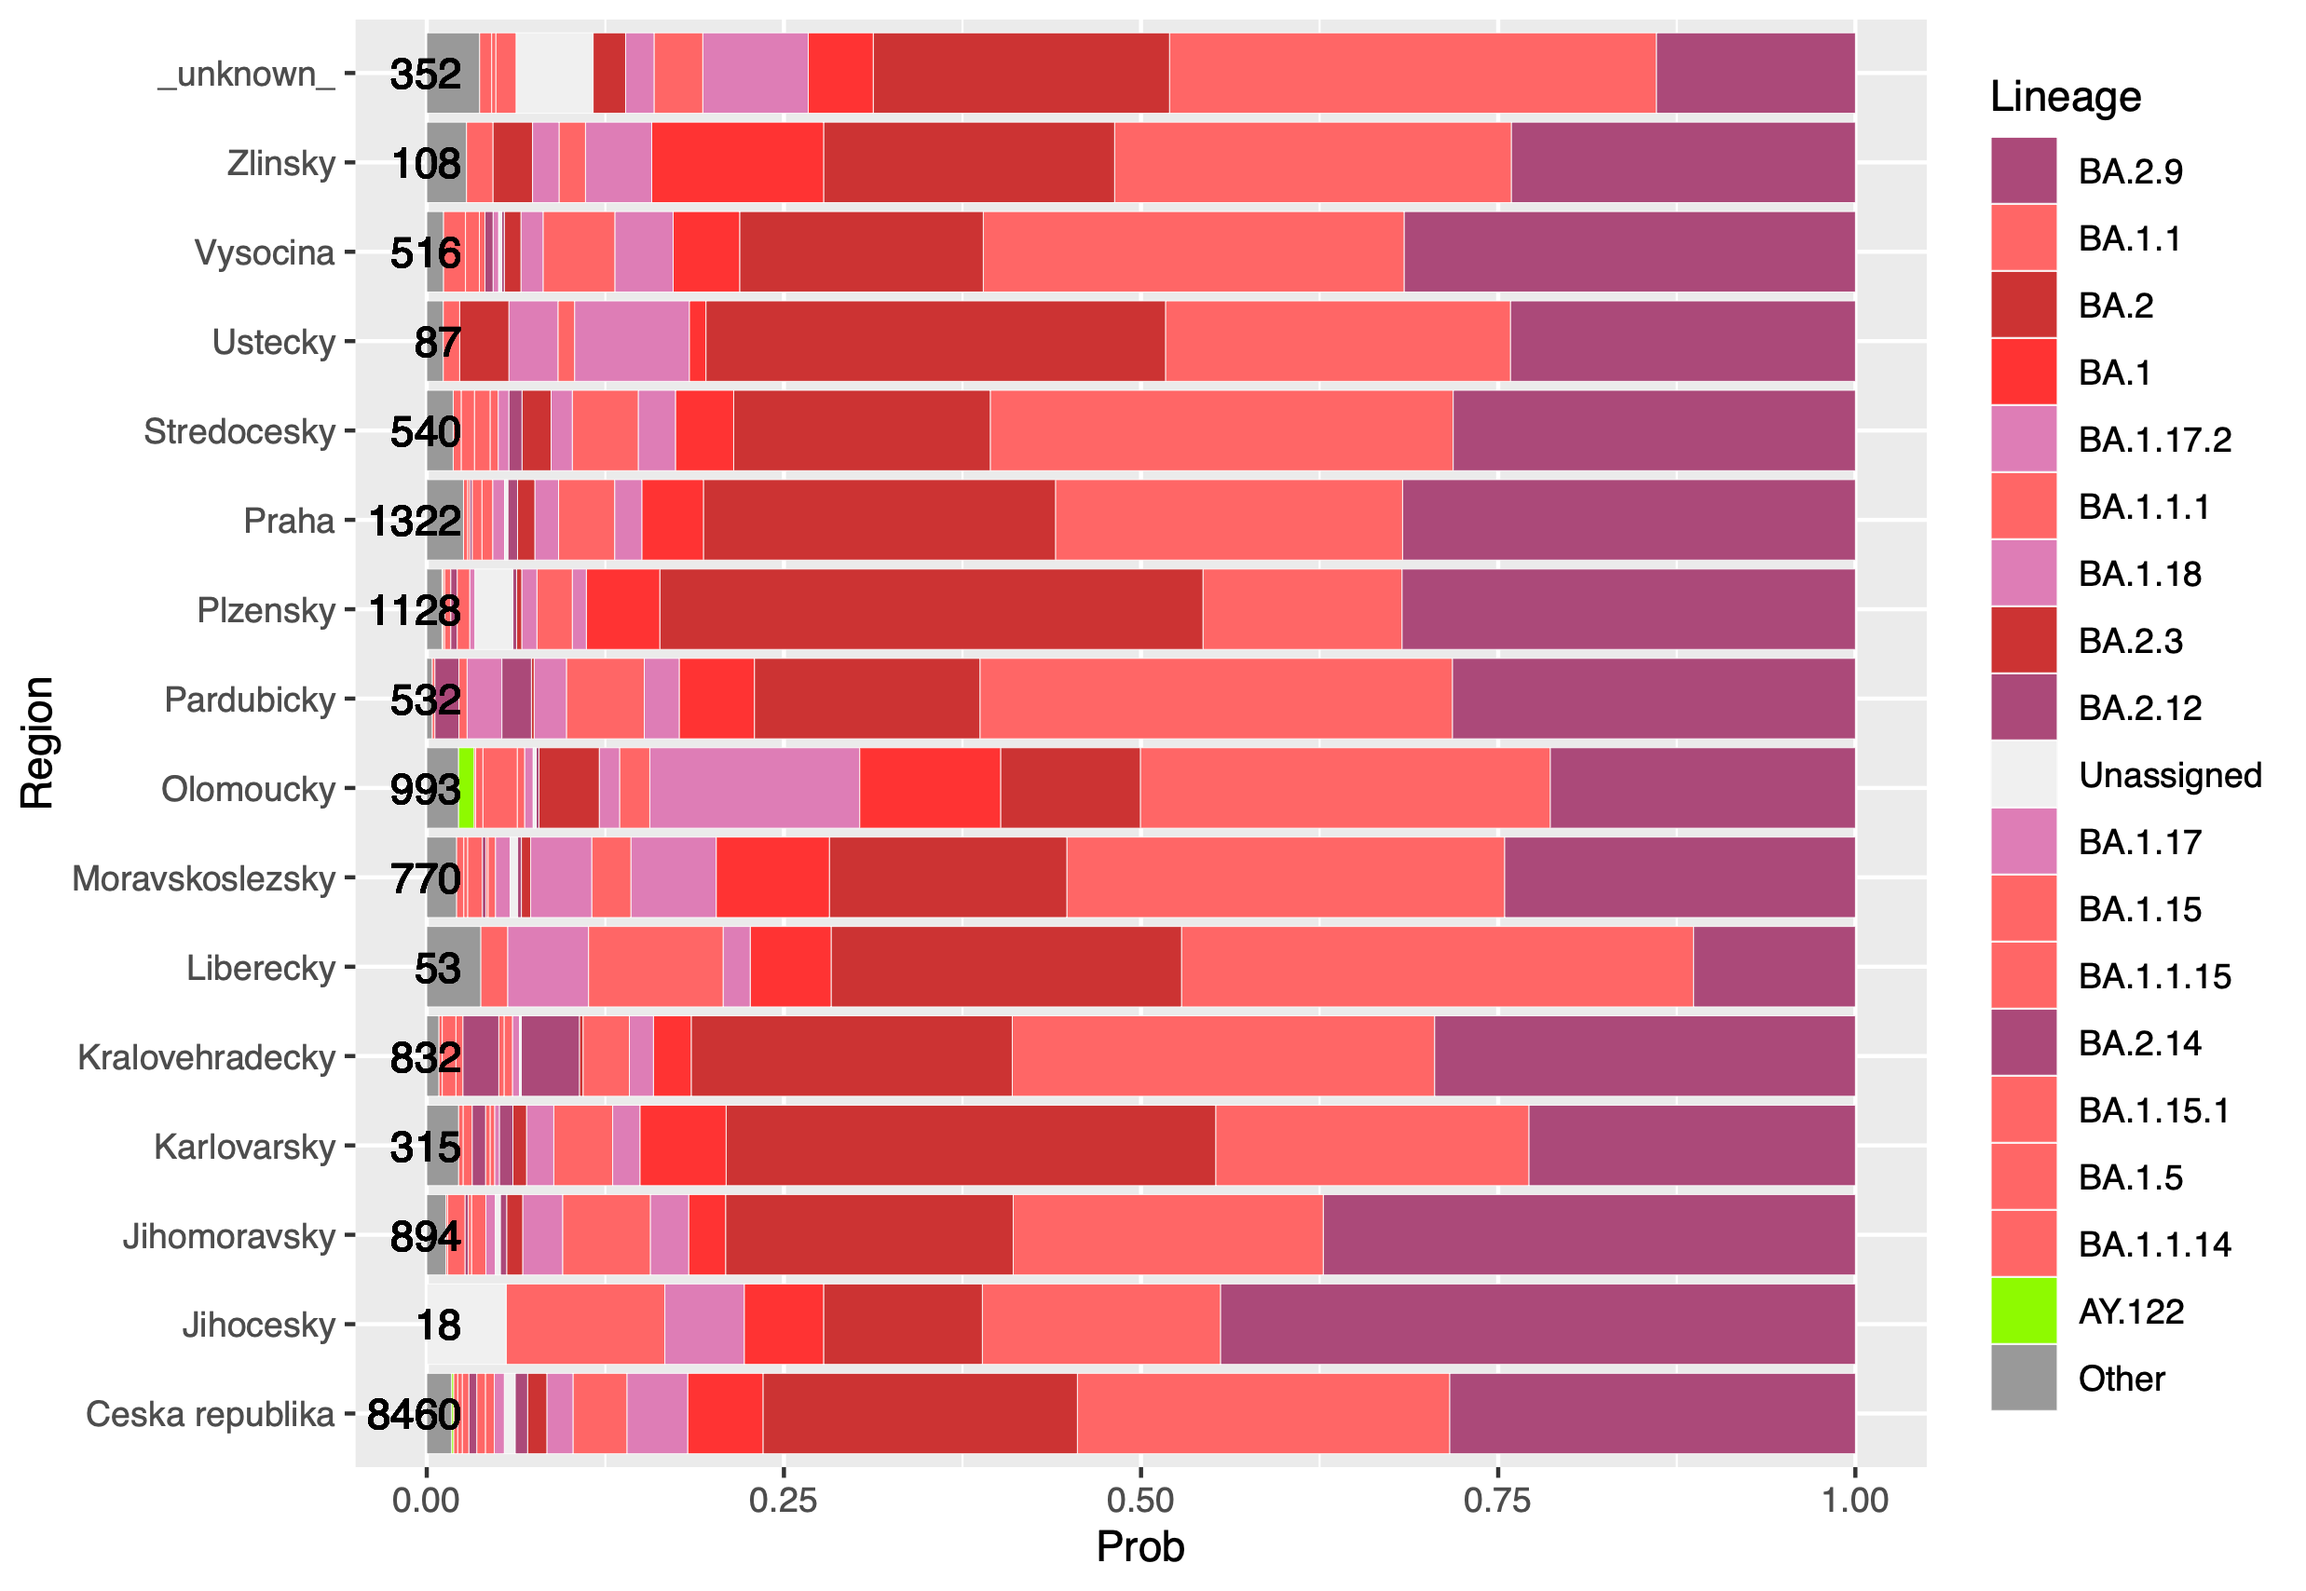
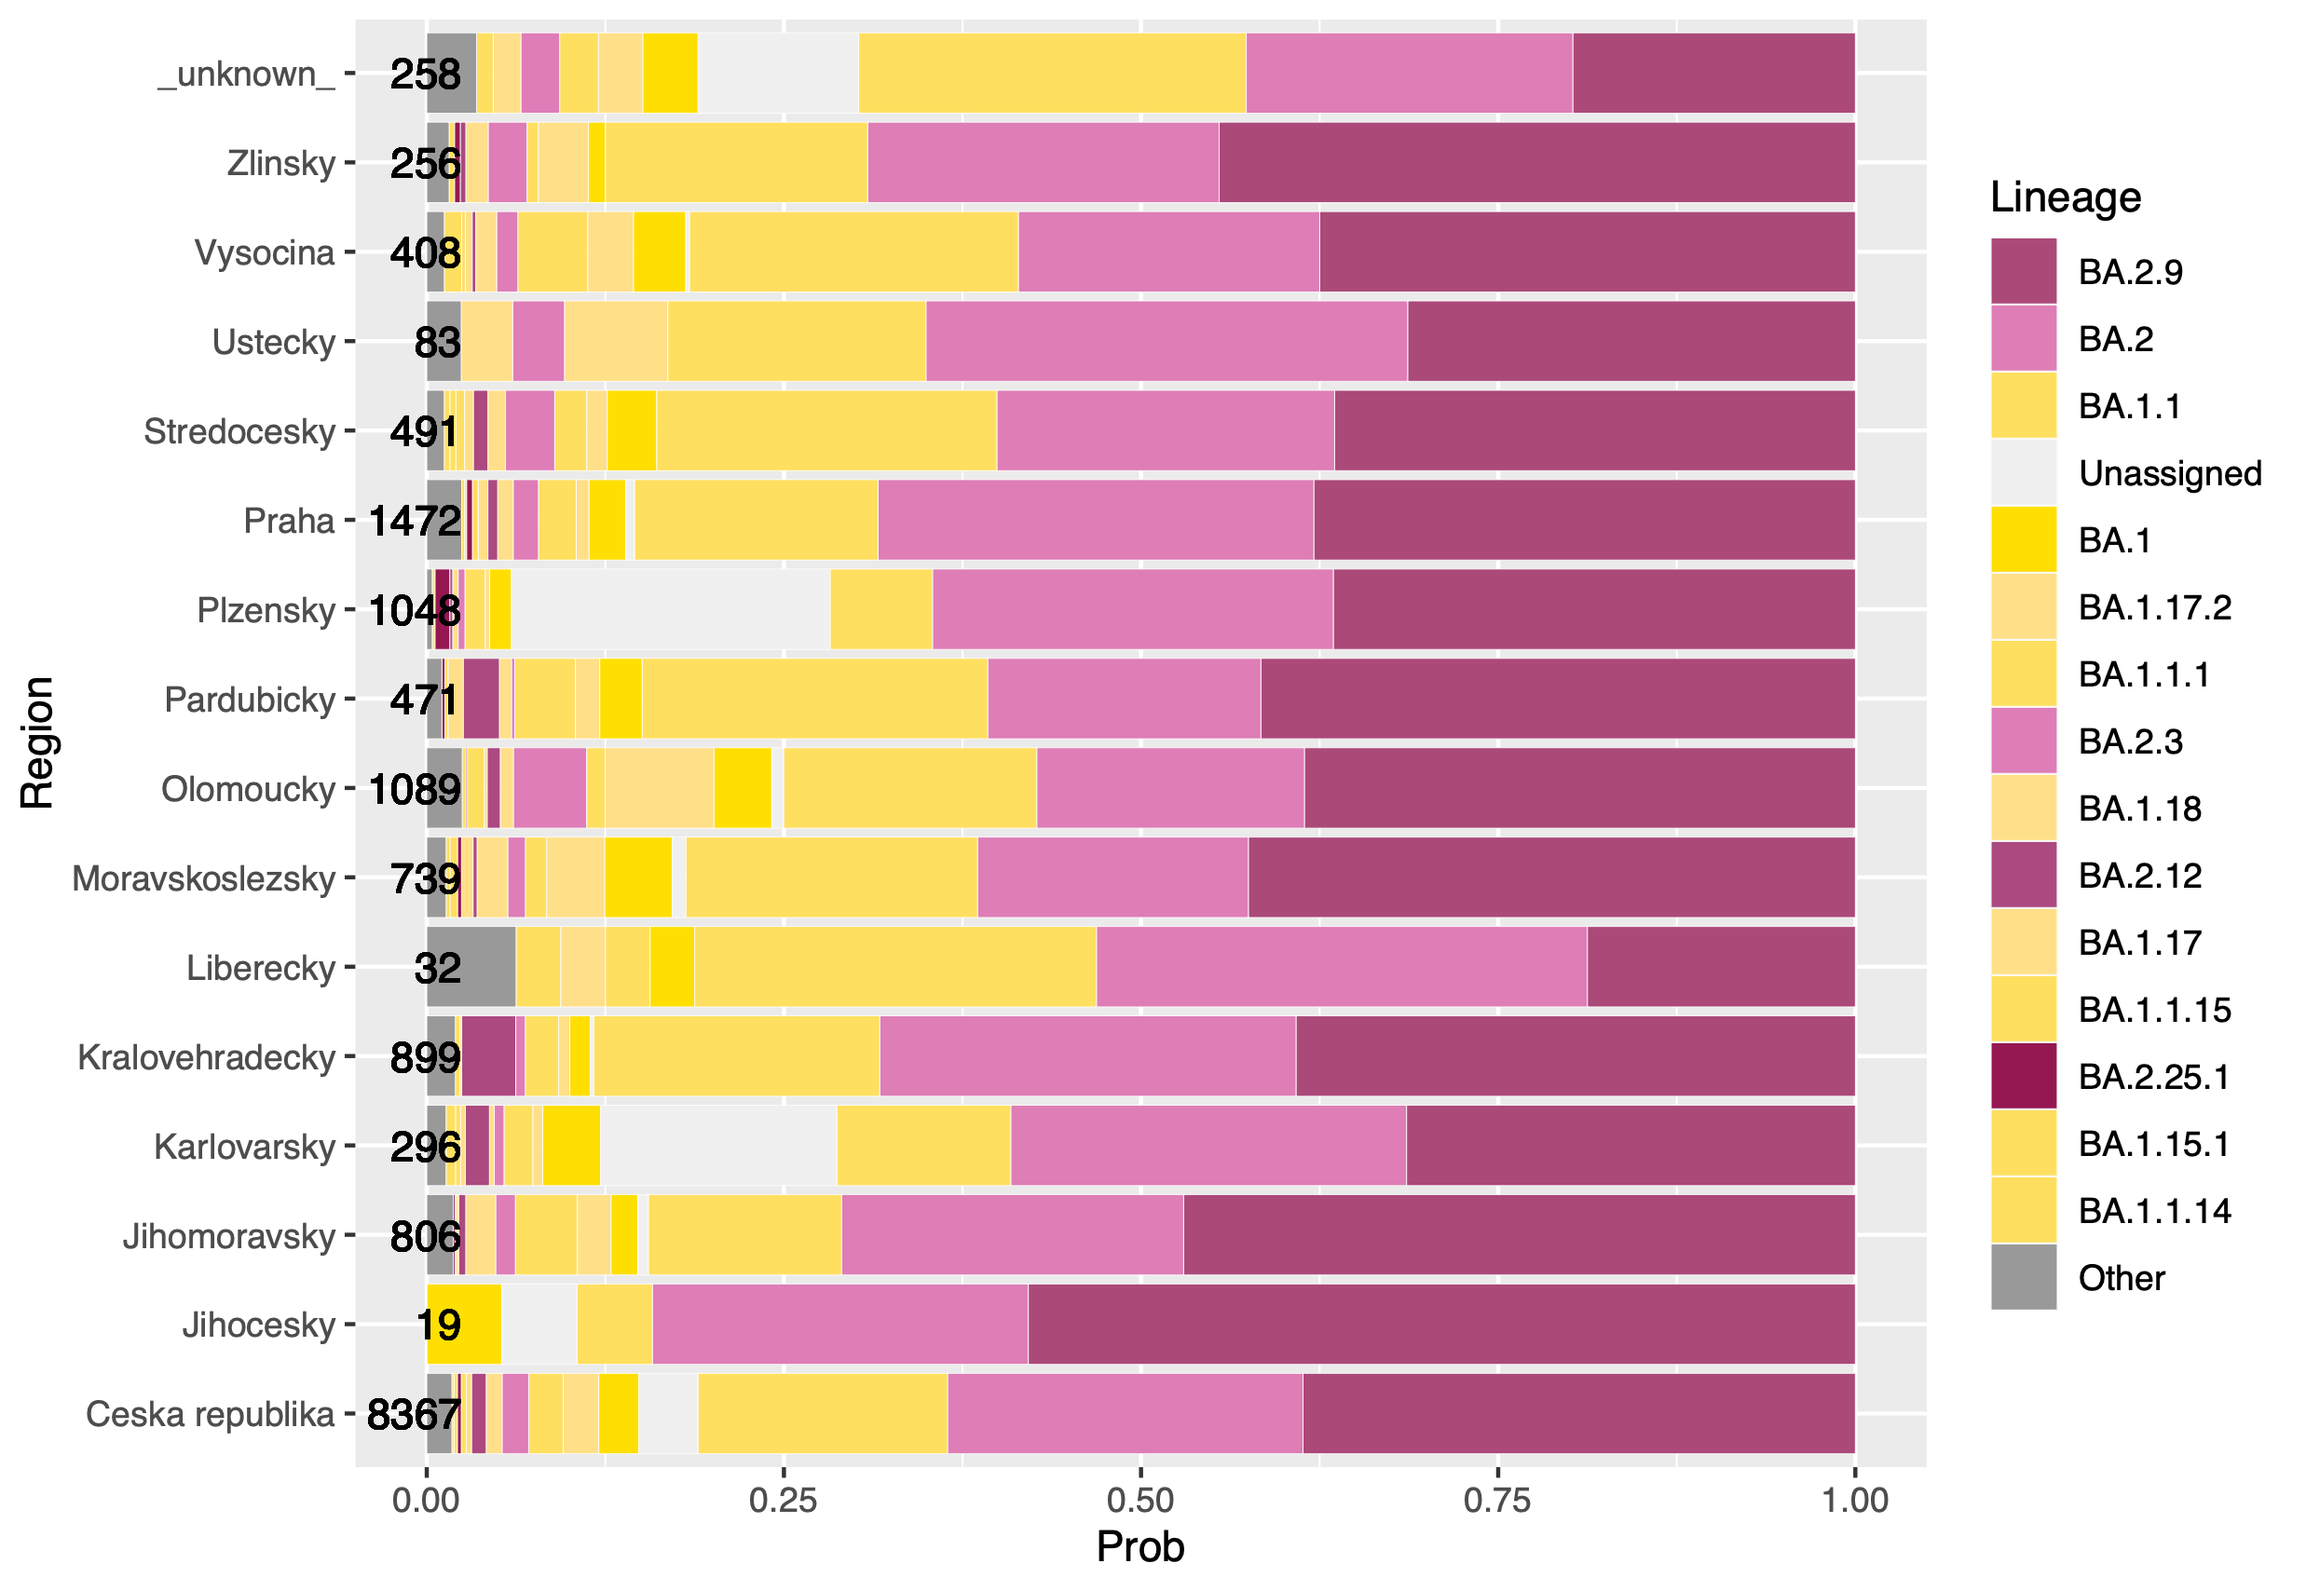
week 18 v1

diff --git a/template_main.py b/template_main.py
@@ -27,7 +27,7 @@ STARTING_WEEK = "7"
 SEQUENCED_RATIO = "2.0"
 MUTATIONS_COUNT = "6 000"
 NOW=datetime.datetime.now().strftime('%d. %m. %Y' )
-VOC = ['B.1.351',"B.1.1.529", 'P.1', 'B.1.617.2','B.1.1.7',"B.1.351.2", "B.1.351.5", "BA.1.1", "BA.1.1.2", "BA.1.1.1", "BA.1.1.4", "BA.1.1.7", "BA.1.1.10","BA.1.1.11", "BA.1.1.12", "BA.1.1.13", "BA.1.1.14", "BA.1.1.15","BA.1.1.16","BA.1.1.16.2", "BA.1", "BA.1.4", "BA.1.5", "BA.1.6", "BA.1.7", "BA.1.8", "BA.1.10", "BA.1.12", "BA.1.13", "BA.1.13.1", "BA.1.14", "BA.1.15", "BA.1.15.1","BA.1.16", "BA.1.17", "BA.1.17.2","BA.1.18", "BA.1.20", "BA.1.21","BA.1.21.1", "BA.2","BA.2.1", "BA.2.3", "BA.2.4", "BA.2.5", "BA.2.6", "BA.2.7","BA.2.9", "BA.2.10","BA.2.10.1", "BA.2.11", "BA.2.12", "BA.2.14", "BA.3",  "AY.1", "AY.2", "AY.3", "AY.4", "AY.4.1", "AY.4.2", "AY.4.2.1", "AY.4.2.2", "AY.4.2.3", "AY.4.3", "AY.4.13", "AY.4.4","AY.4.5", "AY.4.6", "AY.4.7", "AY.4.9", "AY.5", "AY.5.2", "AY.5.4", "AY.6","AY.7","AY.7.1", "AY.7.2", "AY.9","AY.9.1", "AY.9.2", "AY.10", "AY.11", "AY.12", "AY.16", "AY.20", "AY.20.1", "AY.21", "AY.23","AY.23.1", "AY.25", "AY.25.1", "AY.26","AY.27", "AY.31", "AY.32", "AY.33", "AY.34", "AY.35","AY.36", "AY.36.1", "AY.37", "AY.38", "AY.39", "AY.39.1", "AY.40", "AY.41","AY.42", "AY.43", "AY.43.2", "AY.43.3", "AY.43.4", "AY.43.6", "AY.43.7", "AY.43.8", "AY.43.9", "AY.44", "AY.45", "AY.46", "AY.46.1", "AY.46.5", "AY.46.6","AY.46.2", "AY.46.6", "AY.47", "AY.51", "AY.60", "AY.61", "AY.66", "AY.68", "AY.71", "AY.74", "AY.79", "AY.84", "AY.91", "AY.94", "AY.95", "AY.96", "AY.98", "AY.98.1", "AY.100", "AY.102", "AY.103", "AY.106", "AY.110", "AY.111", "AY.112", "AY.113", "AY.116", "AY.117", "AY.118", "AY.119", "AY.120", "AY.121", "AY.121.1", "AY.122", "AY.122.1", "AY.123", "AY.124", "AY.125", "AY.126", "AY.127", "AY.129"]
+VOC = ['B.1.351',"B.1.1.529", 'P.1', 'B.1.617.2','B.1.1.7',"B.1.351.2", "B.1.351.5", "BA.1.1", "BA.1.1.2", "BA.1.1.1", "BA.1.1.4", "BA.1.1.7", "BA.1.1.10","BA.1.1.11", "BA.1.1.12", "BA.1.1.13", "BA.1.1.14", "BA.1.1.15","BA.1.1.16","BA.1.1.16.2","BA.1.1.18",  "BA.1", "BA.1.4", "BA.1.5", "BA.1.6", "BA.1.7", "BA.1.8", "BA.1.10", "BA.1.12", "BA.1.13", "BA.1.13.1", "BA.1.14", "BA.1.15", "BA.1.15.1","BA.1.16", "BA.1.16.2",  "BA.1.17", "BA.1.17.2","BA.1.18", "BA.1.19", "BA.1.20", "BA.1.21","BA.1.21.1", "BA.2","BA.2.1", "BA.2.3", "BA.2.4", "BA.2.5", "BA.2.6", "BA.2.7", "BA.2.8", "BA.2.9", "BA.2.9.2",  "BA.2.10","BA.2.10.1", "BA.2.11", "BA.2.12", "BA.2.14", "BA.2.18", "BA.2.23", "BA.2.25", "BA.2.25.1", "BA.2.27", "BA.2.29", "BA.2.32", "BA.3",  "AY.1", "AY.2", "AY.3", "AY.4", "AY.4.1", "AY.4.2", "AY.4.2.1", "AY.4.2.2", "AY.4.2.3", "AY.4.3", "AY.4.13", "AY.4.4","AY.4.5", "AY.4.6", "AY.4.7", "AY.4.9", "AY.5", "AY.5.2", "AY.5.4", "AY.6","AY.7","AY.7.1", "AY.7.2", "AY.9","AY.9.1", "AY.9.2", "AY.10", "AY.11", "AY.12", "AY.16", "AY.20", "AY.20.1", "AY.21", "AY.23","AY.23.1", "AY.25", "AY.25.1", "AY.26","AY.27", "AY.31", "AY.32", "AY.33", "AY.34", "AY.35","AY.36", "AY.36.1", "AY.37", "AY.38", "AY.39", "AY.39.1", "AY.40", "AY.41","AY.42", "AY.43", "AY.43.2", "AY.43.3", "AY.43.4", "AY.43.6", "AY.43.7", "AY.43.8", "AY.43.9", "AY.44", "AY.45", "AY.46", "AY.46.1", "AY.46.5", "AY.46.6","AY.46.2", "AY.46.6", "AY.47", "AY.51", "AY.60", "AY.61", "AY.66", "AY.68", "AY.71", "AY.74", "AY.79", "AY.84", "AY.91", "AY.94", "AY.95", "AY.96", "AY.98", "AY.98.1", "AY.100", "AY.102", "AY.103", "AY.106", "AY.110", "AY.111", "AY.112", "AY.113", "AY.116", "AY.117", "AY.118", "AY.119", "AY.120", "AY.121", "AY.121.1", "AY.122", "AY.122.1", "AY.123", "AY.124", "AY.125", "AY.126", "AY.127", "AY.129"]
 VOI = ['B.1.620', 'B.1.621', "C.37" ]
 # uprav tyden v range()
 
